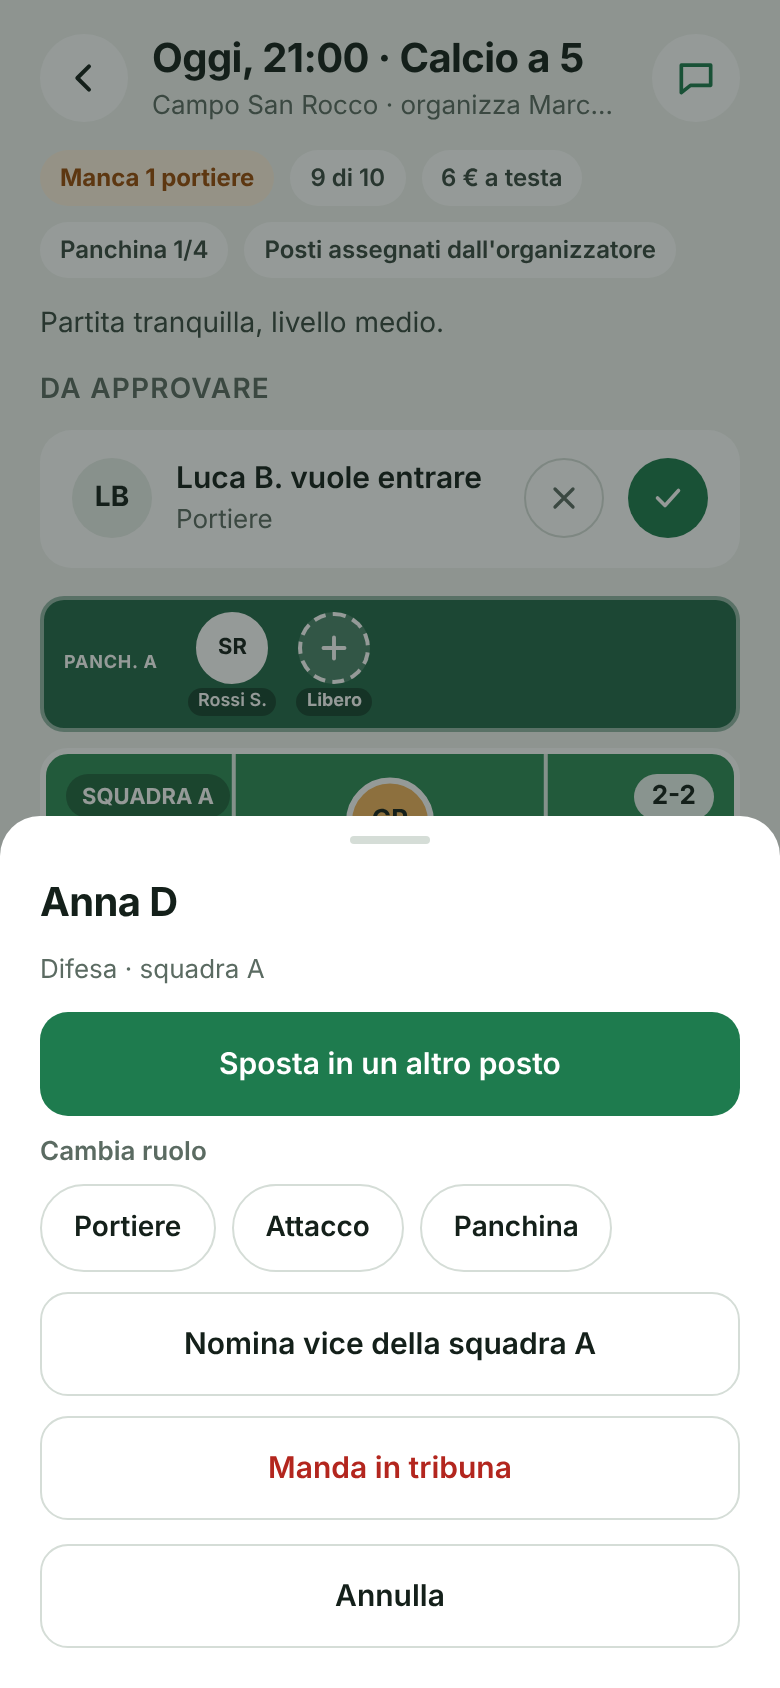
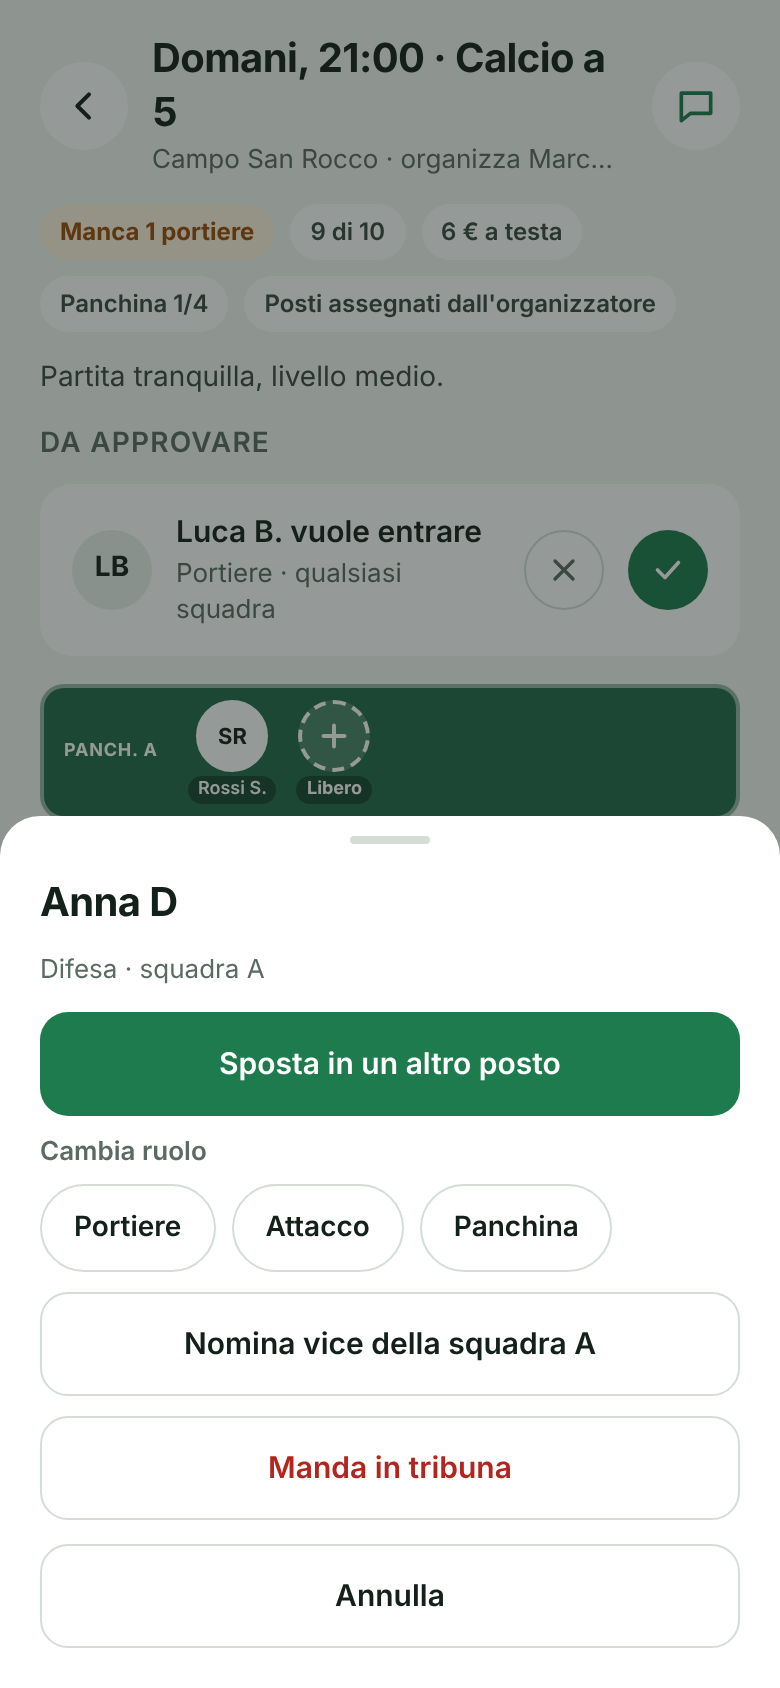
Candidatura con preferenza di squadra, icona formazione in chat, termometro dello spazio
Claude-Session: https://claude.ai/code/session_01Djjfb2KNT9qH8Pf34YuUVA

diff --git a/src/pages/Partita.svelte b/src/pages/Partita.svelte
@@ -51,6 +51,7 @@
   let foglio = $state(null)          // { tipo, posizione }
   let ruoloScelto = $state(null)
   let squadraScelta = $state('A')
+  let squadraPreferita = $state(null)
   let canale = null
   let timerRicarica = null
 
@@ -155,7 +156,7 @@
   const rimuovi = (p) => esegui('rimuovi_posto', { p_posizione: p.id }, 'Posto tolto dallo schema.')
   const proponi = (p, ruolo) => esegui('proponi_cambio', { p_posizione: p.id, p_nuovo_ruolo: ruolo }, p.giocatore_id ? 'Proposta inviata: il giocatore deve accettare.' : 'Ruolo cambiato.')
   const rispondiCambio = (accetta) => esegui('rispondi_cambio', { p_posizione: mioPosto.id, p_accetta: accetta }, accetta ? 'Ruolo aggiornato.' : 'Hai rifiutato il cambio.')
-  const candidati = () => esegui('candidati', { p_partita: id, p_ruolo: ruoloScelto }, 'Candidatura inviata: l\'organizzatore riceve la richiesta.')
+  const candidati = () => esegui('candidati', { p_partita: id, p_ruolo: ruoloScelto, p_squadra: squadraPreferita }, 'Candidatura inviata: l\'organizzatore riceve la richiesta.')
   const ritira = () => esegui('ritira_candidatura', { p_richiesta: miaRichiesta.id }, 'Candidatura ritirata.')
   const rispondiRichiesta = (r, accetta) => esegui('rispondi_richiesta', { p_richiesta: r.id, p_accetta: accetta }, accetta ? `${nomeBreve(r.giocatore)} è in squadra.` : 'Candidatura rifiutata.')
   const aggiungi = () => esegui('aggiungi_posto', { p_partita: id, p_squadra: squadraScelta, p_ruolo: ruoloScelto ?? 'centro' }, 'Posto aggiunto.')
@@ -282,7 +283,7 @@
               <div class="avatar">{iniziali(r.giocatore)}</div>
               <div class="riempi">
                 <div class="nome">{nomeBreve(r.giocatore)} vuole entrare</div>
-                <div class="sotto">{r.ruolo_richiesto ? etichettaRuolo(r.ruolo_richiesto) : 'Qualsiasi ruolo'}</div>
+                <div class="sotto">{r.ruolo_richiesto ? etichettaRuolo(r.ruolo_richiesto) : 'Qualsiasi ruolo'} · {r.squadra_preferita ? `squadra ${r.squadra_preferita}` : 'qualsiasi squadra'}</div>
               </div>
               <button type="button" class="btn-tondo piccolo bordo" aria-label="Rifiuta" disabled={occupato} onclick={() => rispondiRichiesta(r, false)}><Icona nome="x" dimensione={18} spessore={2.2} /></button>
               <button type="button" class="btn-tondo piccolo verde" aria-label="Accetta" disabled={occupato} onclick={() => rispondiRichiesta(r, true)}><Icona nome="spunta" dimensione={18} spessore={2.4} /></button>
@@ -381,7 +382,7 @@
       {:else if miaRichiesta}
         <button type="button" class="btn bianco" disabled={occupato} onclick={ritira}>Candidatura inviata · tocca per ritirarla</button>
       {:else}
-        <button type="button" class="btn" onclick={() => { ruoloScelto = null; foglio = { tipo: 'candidati' } }}>
+        <button type="button" class="btn" onclick={() => { ruoloScelto = null; squadraPreferita = null; foglio = { tipo: 'candidati' } }}>
           {numeri.liberi > 0 ? 'Candidati per un ruolo' : 'Al completo · mettiti in lista'}
         </button>
       {/if}
@@ -402,7 +403,7 @@
         {#if approvazione && !sonoOrganizzatore}
           <p class="aiuto">In questa partita i posti li assegna l'organizzatore.</p>
           {#if !miaRichiesta}
-            <button type="button" class="btn" disabled={occupato} onclick={() => { ruoloScelto = p.ruolo; candidati() }}>Candidati come {etichettaRuolo(p.ruolo).toLowerCase()}</button>
+            <button type="button" class="btn" disabled={occupato} onclick={() => { ruoloScelto = p.ruolo; squadraPreferita = p.squadra; candidati() }}>Candidati come {etichettaRuolo(p.ruolo).toLowerCase()}</button>
           {/if}
           {#if !sonoInTribuna}
             <button type="button" class="btn bianco" disabled={occupato} onclick={entraTribuna}>Entra in tribuna</button>
@@ -476,6 +477,13 @@
       </Foglio>
     {:else if foglio?.tipo === 'candidati'}
       <Foglio aperto titolo="Candidati" sotto="L'organizzatore riceve la richiesta e ti assegna un posto." chiudi={() => (foglio = null)}>
+        <span class="aiuto" style="font-weight:600">Squadra</span>
+        <div class="scelte">
+          <button type="button" class="scelta" class:attiva={squadraPreferita === null} onclick={() => (squadraPreferita = null)}>Qualsiasi</button>
+          <button type="button" class="scelta" class:attiva={squadraPreferita === 'A'} onclick={() => (squadraPreferita = 'A')}>Squadra A</button>
+          <button type="button" class="scelta" class:attiva={squadraPreferita === 'B'} onclick={() => (squadraPreferita = 'B')}>Squadra B</button>
+        </div>
+        <span class="aiuto" style="font-weight:600">Ruolo</span>
         <div class="scelte">
           <button type="button" class="scelta" class:attiva={ruoloScelto === null} onclick={() => (ruoloScelto = null)}>Qualsiasi ruolo</button>
           {#each (haPanchina ? ruoliCambio : ruoliDisponibili) as r}

diff --git a/src/pages/Admin.svelte b/src/pages/Admin.svelte
@@ -9,6 +9,9 @@
   import Icona from '../components/Icona.svelte'
 
   let numeri = $state(null)
+  let spazio = $state(null)
+  const LIMITE = 500 * 1024 * 1024   // piano gratuito Supabase
+  const mb = (b) => (b / 1024 / 1024).toLocaleString('it-IT', { maximumFractionDigits: 1 })
   let utenti = $state([])
   let partite = $state([])
   let campi = $state([])
@@ -27,13 +30,15 @@
 
   async function carica() {
     errore = ''
-    const [n, u, p, c] = await Promise.all([
+    const [n, u, p, c, sp] = await Promise.all([
       supabase.rpc('admin_numeri'),
       supabase.rpc('admin_utenti', { p_limite: 50 }),
       supabase.from('partite').select('*, campo:campi(nome), organizzatore:profili!partite_organizzatore_id_fkey(nome), posizioni(stato)')
         .gte('data_ora', new Date(Date.now() - 86400000).toISOString()).order('data_ora').limit(30),
-      supabase.from('campi').select('*, partite(count)').order('creato_il', { ascending: false }).limit(50)
+      supabase.from('campi').select('*, partite(count)').order('creato_il', { ascending: false }).limit(50),
+      supabase.rpc('admin_spazio')
     ])
+    spazio = sp.data?.[0] ?? null
     const e = n.error || u.error || p.error || c.error
     if (e) errore = /does not exist|schema cache/i.test(e.message) ? 'Il database non è ancora aggiornato alla tappa 2 (manca la migrazione 0002).' : e.message
     numeri = n.data?.[0] ?? null
@@ -96,6 +101,19 @@
           {/each}
         </div>
         <p class="aiuto">{numeri.partite_settimana} partite nei prossimi 7 giorni · {numeri.partite_totali} create in tutto</p>
+      {/if}
+
+      {#if spazio}
+        {@const perc = Math.min(100, (spazio.database_byte / LIMITE) * 100)}
+        <section class="sezione">
+          <div class="sezione-titolo">Spazio del database</div>
+          <div class="card" style="gap:10px">
+            <div style="display:flex; justify-content:space-between; font-size:14px"><strong>{mb(spazio.database_byte)} MB su 500 MB</strong><span>{perc.toFixed(1).replace('.', ',')}%</span></div>
+            <div class="barra" style="flex:none; height:12px; border-radius:6px"><div style={`width:${Math.max(perc, 1)}%; height:12px; background:${perc >= 80 ? 'var(--errore)' : perc >= 60 ? 'var(--portiere)' : 'var(--verde)'}`}></div></div>
+            <div class="sotto">Chat: {mb(spazio.messaggi_byte)} MB ({spazio.messaggi} messaggi) · Partite e posti: {mb(spazio.partite_byte)} MB ({spazio.partite}) · Utenti: {mb(spazio.profili_byte)} MB ({spazio.profili})</div>
+            <p class="aiuto">{perc >= 80 ? 'Quasi pieno: scarica l\'archivio e fai pulizia, oppure passa a Supabase Pro.' : perc >= 60 ? 'Oltre metà: è il momento di pensare a Supabase Pro o alla pulizia delle chat vecchie.' : 'Tutto tranquillo. Il resto dello spazio è occupato dalla struttura di base di Supabase.'}</p>
+          </div>
+        </section>
       {/if}
 
       <section class="sezione">

diff --git a/src/pages/ChatPartita.svelte b/src/pages/ChatPartita.svelte
@@ -59,7 +59,7 @@
 
   async function caricaStati() {
     const [{ data: r }, { data: po }, { data: inv }] = await Promise.all([
-      supabase.from('richieste').select('id, stato, giocatore_id, ruolo_richiesto, giocatore:profili(id, nome)').eq('partita_id', id),
+      supabase.from('richieste').select('id, stato, giocatore_id, ruolo_richiesto, squadra_preferita, giocatore:profili(id, nome)').eq('partita_id', id),
       supabase.from('posizioni').select('id, stato, ruolo, squadra, giocatore_id, nuovo_ruolo_proposto').eq('partita_id', id),
       supabase.from('inviti').select('*, posizione:posizioni(ruolo, squadra)').eq('partita_id', id).eq('a_id', uid).eq('stato', 'in_attesa').maybeSingle()
     ])
@@ -141,7 +141,7 @@
         <h1>Chat</h1>
       {/if}
     </div>
-    <a href={`/partita/${id}`} class="btn-tondo" aria-label="Apri la formazione" style="color: var(--verde)"><Icona nome="campi" dimensione={22} /></a>
+    <a href={`/partita/${id}`} class="btn-tondo" aria-label="Apri la formazione" style="color: var(--verde)"><Icona nome="formazione" dimensione={22} /></a>
   </header>
 
   {#if caricamento}
@@ -192,7 +192,7 @@
           {@const r = richieste[m.riferimento_id]}
           <div class="card-msg">
             <div class="testo-card"><Icona nome="utenti" dimensione={18} />
-              {#if r?.giocatore?.nome}{r.giocatore.nome} si candida{r.ruolo_richiesto ? ` come ${etichettaRuolo(r.ruolo_richiesto).toLowerCase()}` : ''}{:else}{m.testo}{/if}
+              {#if r?.giocatore?.nome}{r.giocatore.nome} si candida{r.ruolo_richiesto ? ` come ${etichettaRuolo(r.ruolo_richiesto).toLowerCase()}` : ''}{r.squadra_preferita ? ` · squadra ${r.squadra_preferita}` : ''}{:else}{m.testo}{/if}
             </div>
             {#if r?.stato === 'in_attesa' && gestisco}
               <div class="azioni">

diff --git a/src/pages/Home.svelte b/src/pages/Home.svelte
@@ -181,7 +181,7 @@
               <div class="avatar">{iniziali(r.giocatore)}</div>
               <div class="riempi">
                 <div class="nome">{nomeBreve(r.giocatore)} vuole entrare</div>
-                <div class="sotto">{r.ruolo_richiesto ? etichettaRuolo(r.ruolo_richiesto) : 'Qualsiasi ruolo'} · {etichettaFormato(r.partita.formato)} {ora(r.partita.data_ora)}</div>
+                <div class="sotto taglia">{r.ruolo_richiesto ? etichettaRuolo(r.ruolo_richiesto) : 'Qualsiasi ruolo'}{r.squadra_preferita ? ` · squadra ${r.squadra_preferita}` : ''} · {etichettaFormato(r.partita.formato)} {ora(r.partita.data_ora)}</div>
               </div>
               <button type="button" class="btn-tondo piccolo bordo" aria-label="Rifiuta" onclick={() => rispondi(r, 'rifiutata')}><Icona nome="x" dimensione={18} spessore={2.2} /></button>
               <button type="button" class="btn-tondo piccolo verde" aria-label="Accetta" onclick={() => rispondi(r, 'accettata')}><Icona nome="spunta" dimensione={18} spessore={2.4} /></button>

diff --git a/src/components/Icona.svelte b/src/components/Icona.svelte
@@ -22,6 +22,7 @@
     matita: '<path d="M4 20h4l10-10-4-4L4 16zM13 7l4 4"/>',
     mail: '<rect x="3" y="5" width="18" height="14" rx="2"/><path d="M3 7l9 6 9-6"/>',
     link: '<path d="M10 14a4 4 0 0 0 5.7 0l3-3a4 4 0 0 0-5.7-5.7l-1 1"/><path d="M14 10a4 4 0 0 0-5.7 0l-3 3a4 4 0 0 0 5.7 5.7l1-1"/>',
+    formazione: '<rect x="4" y="3" width="16" height="18" rx="2"/><path d="M4 12h16"/><circle cx="12" cy="12" r="2.5"/><path d="M9 3v3h6V3M9 21v-3h6v3"/>',
     invia: '<path d="M4 12l16-8-6 16-3-7z"/><path d="M11 13l9-9"/>',
     ricarica: '<path d="M20 12a8 8 0 1 1-2.3-5.7M20 4v5h-5"/>'
   }

diff --git a/CLAUDE.md b/CLAUDE.md
@@ -97,3 +97,5 @@ RLS: tutti leggono campi e partite aperte; messaggi leggibili/scrivibili solo da
 - 2026-11-11: Sotto i cerchi occupati: **cognome + iniziale del nome** (`nomeCampo`), "Tu" per sé; il ruolo si capisce dalla posizione. I cerchi si muovono solo con trascinamento o cambio modulo; spostare un giocatore o chiamarlo dalla tribuna usa un **selettore a passi** squadra → ruolo → quale cerchio (a sinistra/al centro/a destra, panchina posto 1-2…).
 - 2026-11-11: **Chat** (tappa 3): `/chat` elenco (`mie_chat()`, pallino "nuovo" da `src/lib/letture.js` su localStorage), `/chat/<id>` in tempo reale (Supabase Realtime su `messaggi`). Scrivono solo messaggi `testo` (policy); i messaggi di sistema/richiesta/cambio_ruolo li crea il DB e diventano card con Accetta/Rifiuta. Accesso con `partecipa()` = organizzatore, vice, giocatori, panchina, tribuna, chi ha un invito. Testo 1-1000 caratteri. "Aiuto e supporto" (mailto supporto@nemanca1.com) nel Profilo e nel login.
 - 2026-11-11: `nome_breve` (nomi nei messaggi di sistema): "Marco R." con nome e cognome, solo il nome se il profilo ne ha uno (prima diventava "Un giocatore"). Nella chat la card della candidatura mostra il nome completo letto dalla richiesta.
+- 2026-11-11: **Candidatura con preferenza di squadra** (`richieste.squadra_preferita`, A/B/null = qualsiasi): accettando si cerca prima nella squadra preferita, poi nell'altra; chi non indica il ruolo va in porta solo se non c'è altro. Icona "formazione" (campetto) per andare dalla chat al campo, al posto del segnaposto.
+- 2026-11-11: **Termometro** dello spazio nella pagina amministratore (`admin_spazio()`, limite 500 MB del piano gratuito). Nessun dato viene cancellato in automatico: partite e chat si conservano; quando servirà spazio si scarica l'archivio (bottone da fare, oggi `scripts/backup.sh`) prima di qualsiasi pulizia, decisa da Flavio.

diff --git a/docs/PUNTO.md b/docs/PUNTO.md
@@ -48,6 +48,10 @@ Aggiornato: 11 novembre 2026, sera: tutto provato dal telefono, resta solo il ri
 8. [ ] **Tappa 6**: PWA installabile completa, QR stampabili, prova con 10 persone su un campo vero
 9. [ ] **Entra con Google**
 10. [ ] *Facoltativo*: filtro in Gmail (dal computer) per le email a `supporto@nemanca1.com`: etichetta "Ne manca 1", "Non inviare mai in Spam", eventualmente "importante"
+    [x] **Termometro dello spazio** nella pagina amministratore (richiesto l'11/11): barra su 500 MB, verde/gialla 60%/rossa 80%, peso di chat, partite, utenti
+    [ ] **Scarica archivio** dalla pagina amministratore (richiesto l'11/11): chat, partite, utenti in un file da conservare prima della pulizia
+    [ ] **Passare a Supabase Pro** quando arrivano utenti regolari (più connessioni in tempo reale, niente pausa per inattività, backup giornalieri)
+    [ ] *Facoltativo*: pulizia automatica delle chat di partite vecchie (es. oltre 6 mesi), se il database si avvicina ai 500 MB del piano gratuito (l'11/11: 12 MB in tutto, 48 kB di messaggi)
     [ ] *Facoltativo, alla fine*: in Gmail "Invia come supporto@nemanca1.com" (SMTP di Tophost), per rispondere agli utenti dall'indirizzo del supporto
 11. [ ] **Sicurezza, per ultima**: revocare il primo token Supabase e rigenerare la chiave Resend (finiti in screenshot)
 
